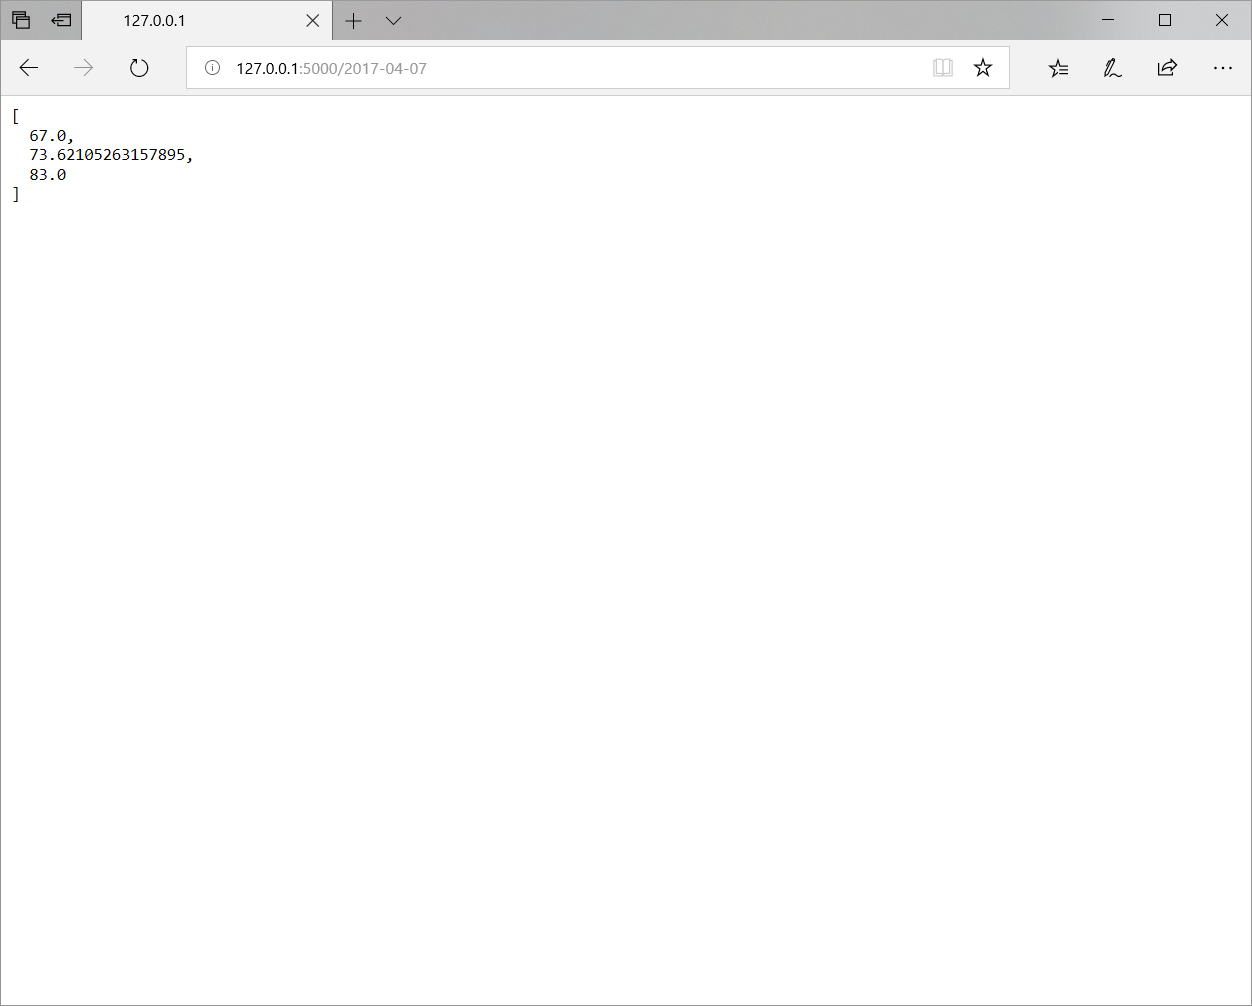
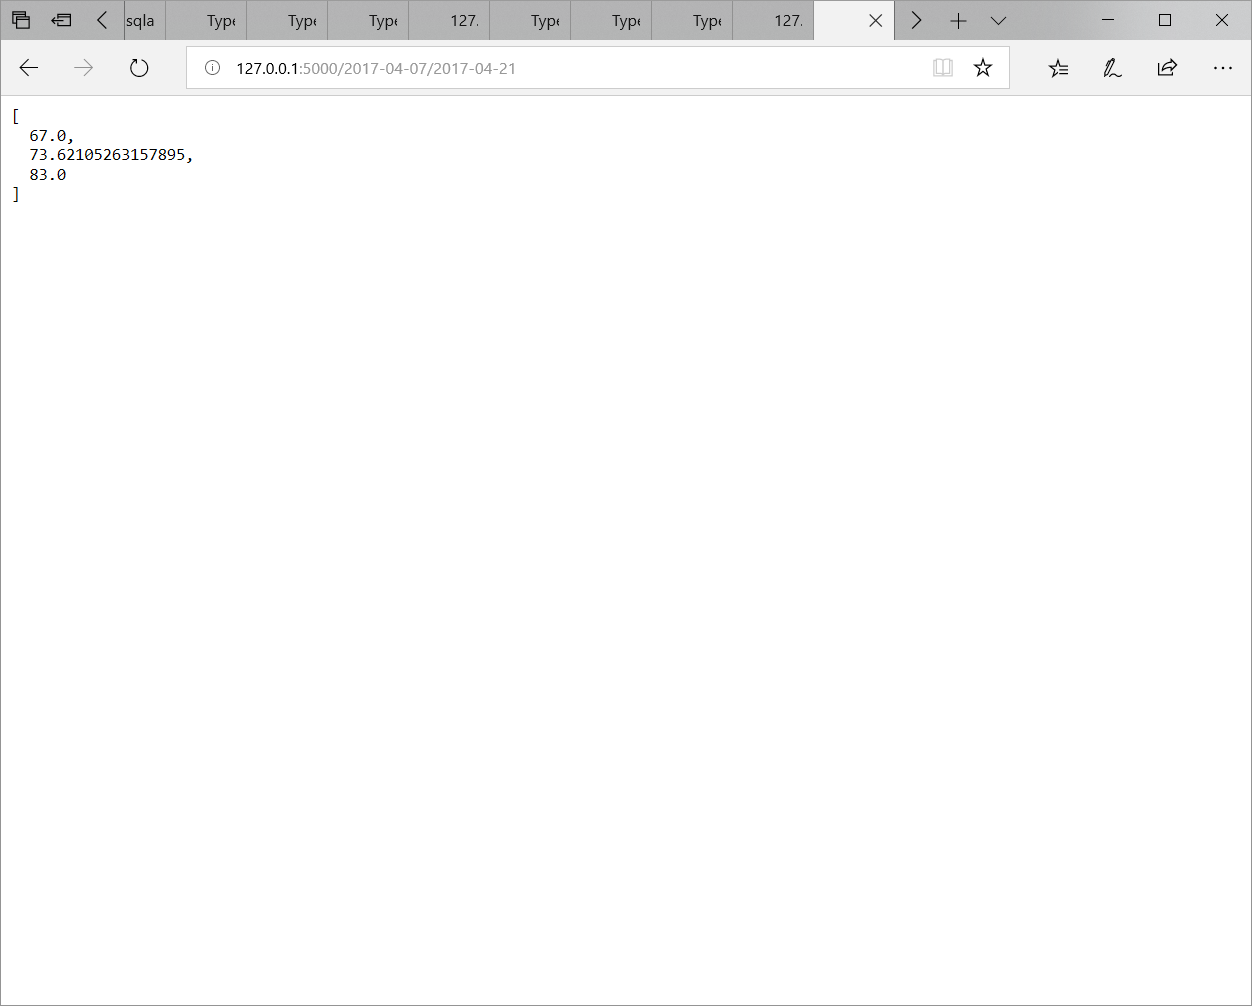
upload

diff --git a/Flask_API_Climate.py b/Flask_API_Climate.py
@@ -77,20 +77,17 @@ def temps():
     
     return jsonify(ly_temp)
 
-
-@app.route("/2017-04-07")
-def show_start_date():
-    start_date = '2017-04-07'
-    end_date   = '2017-04-21 '
-    
-    if end_date != " ":
+@app.route("/<start_date>/<end_date>")
+def show_start_date( start_date,end_date):
+    try:    
         data = session.query(func.min(Measurement.tobs), func.avg(Measurement.tobs), func.max(Measurement.tobs)).filter(Measurement.date >= start_date).filter(Measurement.date <= end_date).all()
-    else:
+        data_list = list(np.ravel(data))
+        return jsonify(data_list)
+	
+    except NotFound:
         data = session.query(func.min(Measurement.tobs), func.avg(Measurement.tobs), func.max(Measurement.tobs)).filter(Measurement.date >= start_date).all()
-
-    data_list = list(np.ravel(data))
-    
-    return jsonify(data_list)
+        data_list = list(np.ravel(data))
+        return jsonify(data_list)
 
 if __name__ == "__main__":
     app.run(debug=True)
